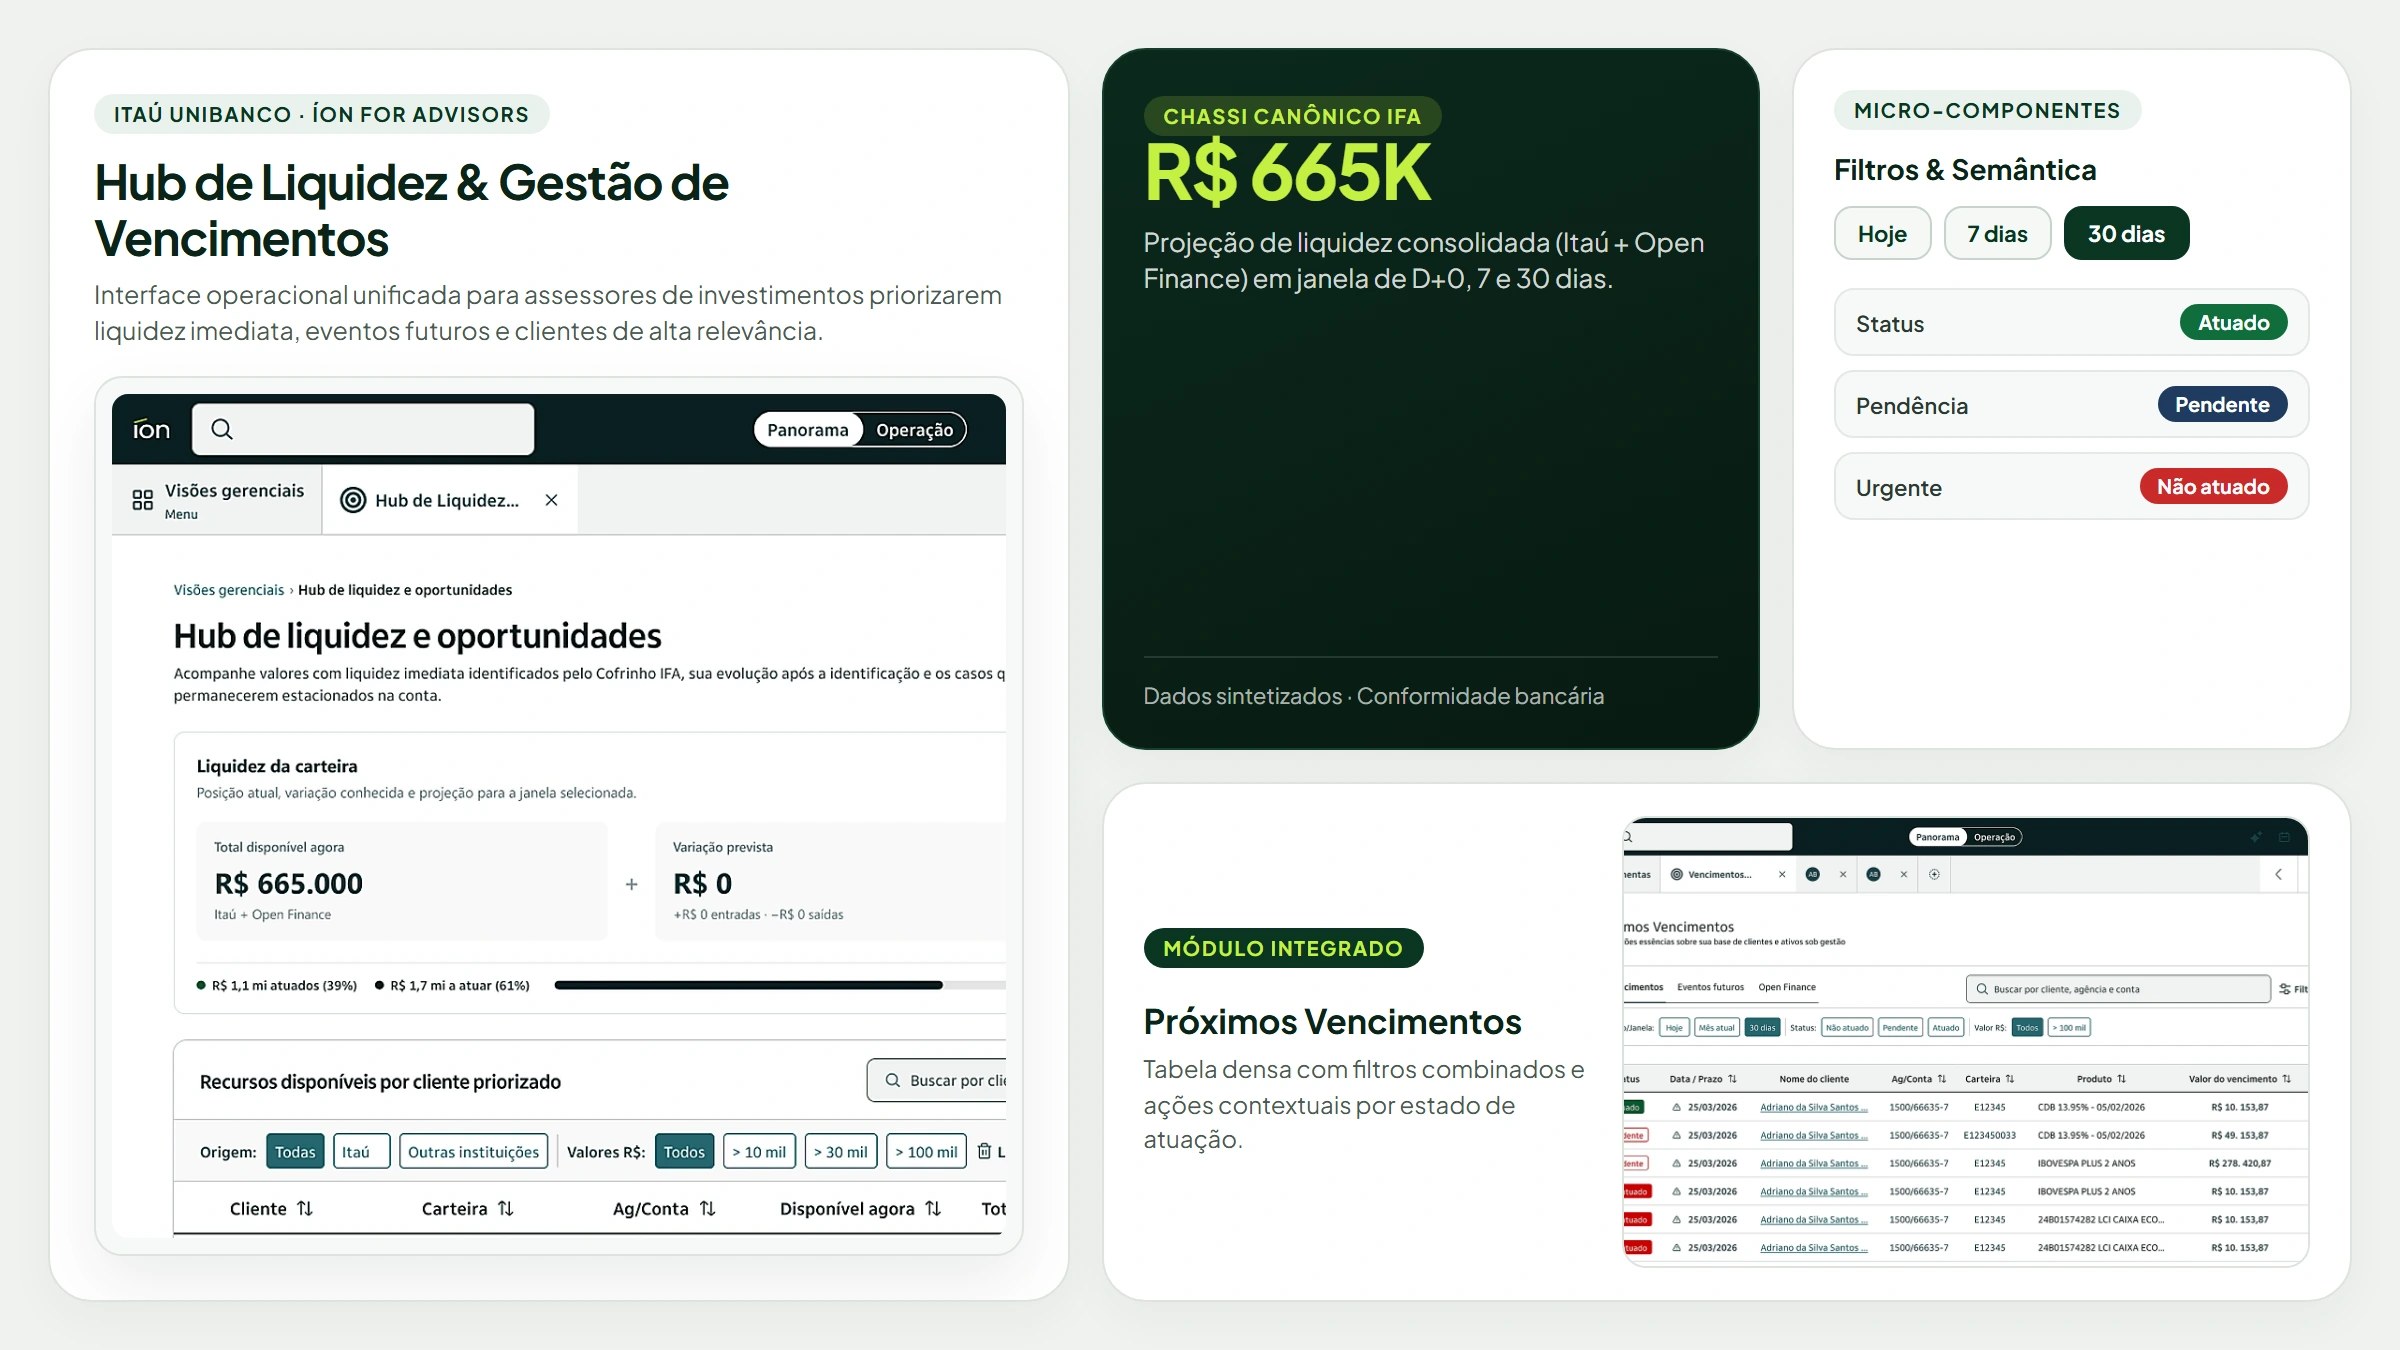
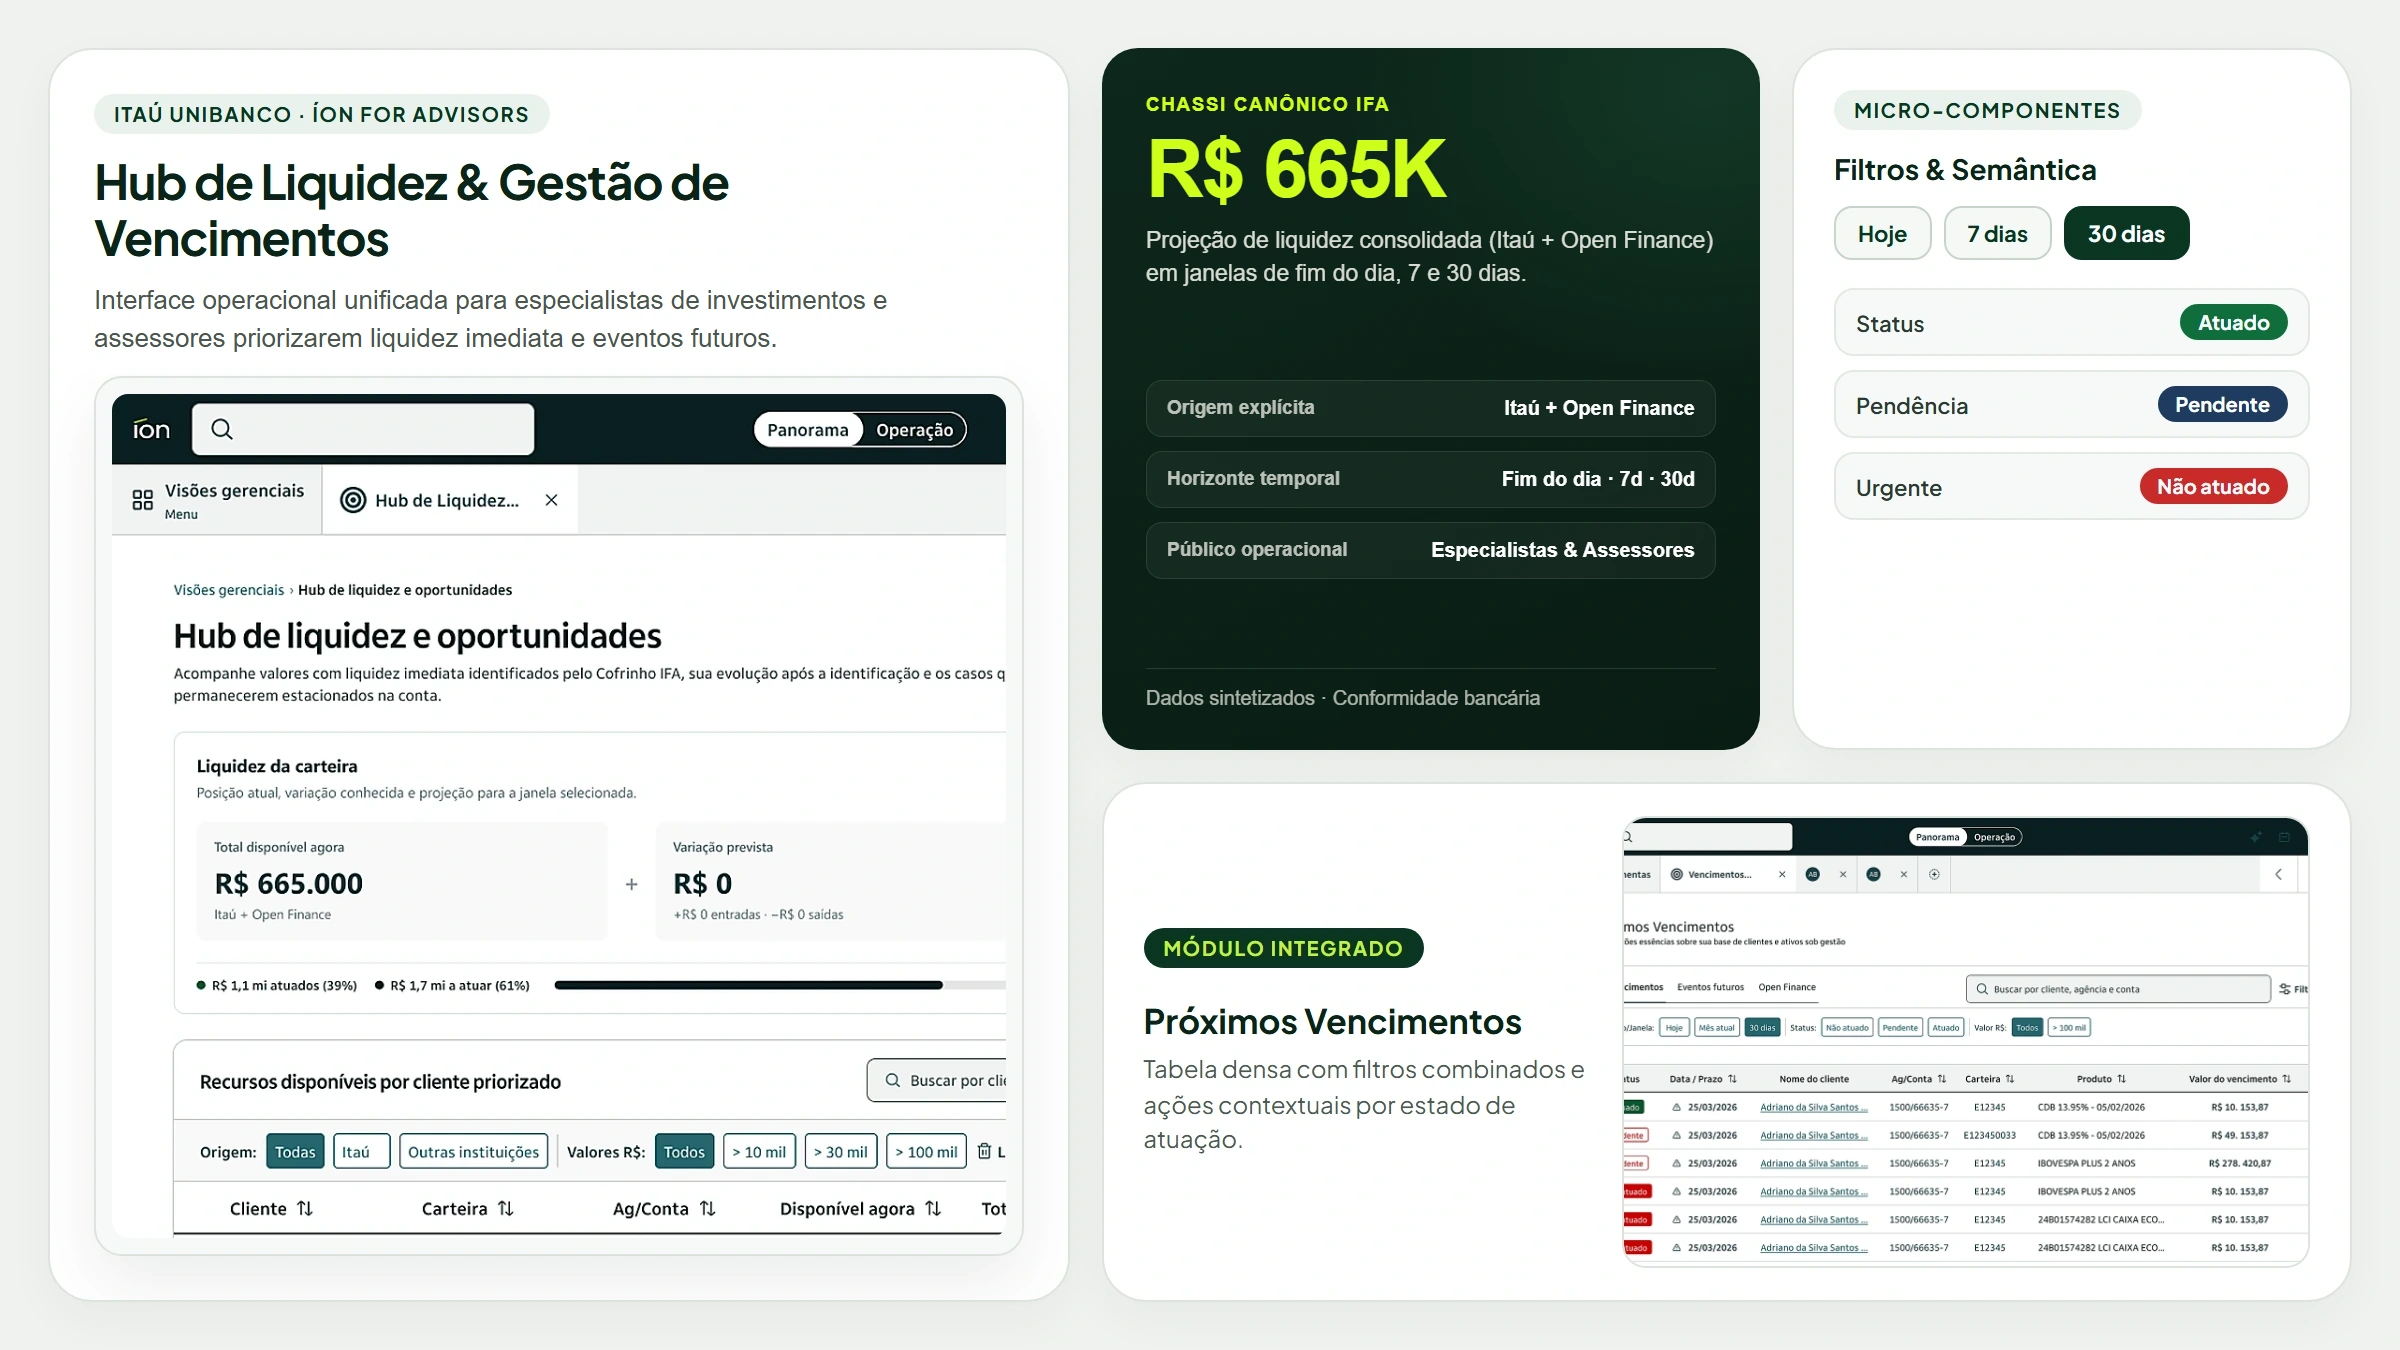
fix(v4.3.2): live prod audit + fix vertical void & WCAG 2.2 anachronism in Einstein v17 & Itau v16 Bento heroes + global pf-sr-only for 404 header

diff --git a/site/src/index.css b/site/src/index.css
@@ -1595,3 +1595,6 @@ body{background:var(--paper);font-family:'Plus Jakarta Sans',sans-serif;color:va
 .site-header { z-index: 40; transition: background-color 220ms cubic-bezier(0.16, 1, 0.3, 1), box-shadow 220ms cubic-bezier(0.16, 1, 0.3, 1), border-color 220ms ease; }
 .site-header.is-scrolled { background: var(--paper); backdrop-filter: none; -webkit-backdrop-filter: none; box-shadow: 0 4px 20px -6px rgba(10, 54, 34, 0.1); border-bottom-color: rgba(10, 54, 34, 0.12); }
 @media (prefers-reduced-motion: reduce) { .site-header { transition: none; } }
+
+/* Global screen-reader-only utility so SiteHeader works identically on Home, Cases, Gate & 404 */
+.pf-sr-only { position: absolute; width: 1px; height: 1px; padding: 0; margin: -1px; overflow: hidden; clip: rect(0, 0, 0, 0); white-space: nowrap; border: 0; }

diff --git a/docs/v3_6_novembro_25_craft/CHANGELOG_V3_6_CRAFT_EDITION.md b/docs/v3_6_novembro_25_craft/CHANGELOG_V3_6_CRAFT_EDITION.md
@@ -292,3 +292,12 @@ Implementados os 4 refinamentos funcionais de alto impacto (evitando intencional
   - **`E06` + `E07` + `E08` (`AP-06`/`AP-02`):** alinhamento horizontal de legendas na galeria de Itaú Vencimentos (`min-height: 22.5rem` em `>= 721px`), limite `max-width: 42rem` em `.cp-feature-card` + respiro antes de `.cp-card-list`, e `.cp-summary` unificado em `44rem`.
 - **Validação & Sincronização:** build `0` erros, `0px` overflow em 4 viewports nos 7 roteiros, `0` alvos `<44px`, **15/15 PASS** no Sentinel v2, espelho `portfolio-verde/` 1:1 e Notion Portfolio Ops atualizado.
 - **Proveniência:** IA `Antigravity — Google DeepMind` · Atualização `2026-11-27` · Conversa `conversation://66417f41-f841-4d50-a701-e678302e3ec2`.
+
+### 2026-11-27 — Versão V4.3.2 (Auditoria Ao Vivo em Produção + Correção de Espaçamento/Factual nos Heroes Bento Einstein & Itaú + Bug `pf-sr-only` na 404)
+- **Auditoria Ao Vivo (`https://israelfull-commits.github.io/portfolio/`):** validados **HTTP 200 OK** na Home, nas 8 rotas SPA de cases e no CV PDF (`58.669 bytes`), desbloqueio real do `CaseAccessGate`, `0` erros de console nas páginas válidas, `0px` overflow (`1440/768/390/320px`) e `0` alvos `<44px` em Home (incluindo menu mobile aberto), Gate e 404.
+- **Correção Visual & Factual nos Master Heroes Bento (`2400×1350`, `AP-06` + `TX-08` + `TX-09`):**
+  - **`v17-einstein-bento-light-aeroload.webp`:** eliminado o vazio vertical no card escuro superior direito (apontado por Israel), removido o anacronismo `WCAG 2.2 AAA` de 2022 e reorganizado o card com subtítulo de triangulação, 3 KPIs factuais (`121` pacientes · `4` médicos especialistas · `80+` tipos de exames) e rodapé `Proposta v3 implantada em produção · Inventário EN-1 a EN-14`.
+  - **`v16-itau-bento-fintech-elegostra-aeroload.webp`:** eliminado o vazio vertical idêntico no card central escuro (`R$ 665K`) com 3 faixas de contexto operacional (*Origem explícita*, *Horizonte temporal*, *Público operacional*) e alinhado o subtítulo esquerdo ao glossário oficial `TX-08` (`especialistas de investimentos e assessores`).
+  - Ambas as imagens espelhadas em `site/public/images/`, `portfolio-verde/public/images/` e `D:\mockups-portfolio-studio\variacoes\`.
+- **Correção Global de Acessibilidade na Rota 404 (`site/src/index.css` · `A-23` / `TH-08`):** promovida `.pf-sr-only` para `index.css`, eliminando o vazamento visual de `Currículo(PDF)` no cabeçalho de `/404` onde `portfolio.css` não era carregado.
+- **Proveniência:** IA `Antigravity — Google DeepMind` · Atualização `2026-11-27` · Conversa `conversation://66417f41-f841-4d50-a701-e678302e3ec2`.

diff --git a/docs/INDEX_GOVERNANCA_E_DECISOES.md b/docs/INDEX_GOVERNANCA_E_DECISOES.md
@@ -21,7 +21,7 @@ flowchart LR
     V36["V3.6 (25/Nov)<br>Craft Edition & Figma Docs<br>• Barra de progresso + Header blur<br>• Hover tátil + Lightbox zoom direto<br>• Prancha DS V3.6 no Plugin Figma"]
     V39["V3.9 (26/Nov)<br>Editorial STAR, ATS & Seção Sobre<br>• 4 arquiteturas anti-template (V3.8)<br>• 0 clichês IA / Negative Prompting<br>• Seção Sobre (cargo + LinkedIn + contato)"]
     V310["V4.2.1 (26/Nov)<br>Varredura 52 Versões + Produção Einstein<br>• CS-01..15 + TX-01..09 nos 4 cases<br>• OG/title estático 8 rotas + A-01<br>• Plugin Figma + 731:699 + produção v3"]
-    V430["V4.3.1 (27/Nov - VIGENTE)<br>Loop Visual 100% dos Cases (8 Rotas)<br>• Einstein (11 fixes) + Itaú 5x / Claro / Neoenergia (9 fixes)<br>• 0 alvos <44px (A-20) + links apêndice (A-05)<br>• 15 decisões Itaú + splits Neoenergia + 15/15 Sentinel"]
+    V430["V4.3.2 (27/Nov - VIGENTE)<br>Loop Visual 100% + Live Prod + Bento Fix<br>• 8 rotas + Home + Gate + 404 auditados ao vivo<br>• Heroes Bento Einstein v17 & Itaú v16 sem vazio/TX-09<br>• .pf-sr-only global + 0 alvos <44px + 15/15 Sentinel"]
     V1 --> V2 --> V3 --> V35 --> V36 --> V39 --> V310 --> V430
 ```
 
